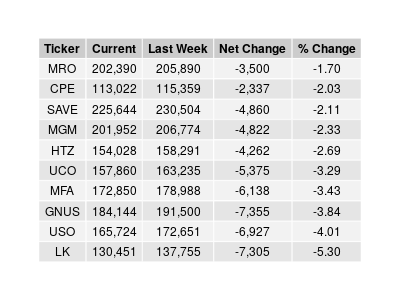
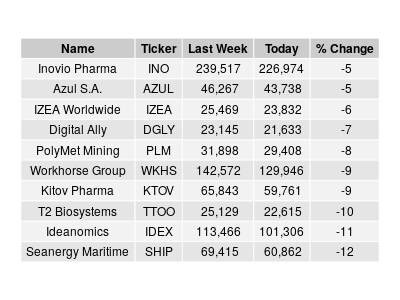
updated on july 12

diff --git a/README.md b/README.md
@@ -1,17 +1,11 @@
 # Robinhood at a Glance
-### -- July 5, 2020
-
-See [this chart](https://charts4github.imfast.io/interactive-plots.html)
+### -- July 12, 2020
 
 This is a preamble to full scale modeling of the Robinhood popularity data using machine learning. Before that, I want to 
 take a glance of the current market as seen in the Robinhood community. Here I use the dataset provided in [*robintrack*](https://robintrack.net), 
 which has the most up-to-date user holdings data. 
 
-[Robinhood](https://robinhood.com) is a discount broker which charges zero commission for stock trading. It has gained wide following in
-recent years, particularly among the millennials. Unlike other brokers, it publishes aggregate data about what stocks its
-users own, and that is the *popularity data* I analyse here. 
-
-For example, the table below shows 916,933 accounts have a position in Ford. Robinhood does not publish the exact number of shares each account holds. 
+[Robinhood](https://robinhood.com) is a discount broker which charges zero commission for stock trading. It has gained wide following in recent years, particularly among the millennials. Unlike other brokers, it publishes aggregate data about what stocks its users own, which is called a stock's *popularity*. 
 
 Since the dataset is quite large (3.3 Gb) and belongs to *robintrack*, I do not include it here. To run my scripts, you need to download it from his site -- see __Data Sources__ below.
 
@@ -25,21 +19,18 @@ Another aspect to keep in mind is that popularity doesn't equate to exposure. A 
 Thus, there is no direct and necessary relationship between popularity and sentiment on a stock. In fact, the usefulness of this particular data point is to be evaluated and determined by a suitable ML model. On some stocks, a large popularity may be a good predictor of future return while it may have little value on others. 
 
 
-## Stocks held by at least 100k accounts [Jun 27th, 2020]
+## Stocks held by at least 100k accounts [July 12th, 2020]
 Just a quick scan of the most popular holdings. Notice that some of these are ETF, e.g. `VOO`, `SPY`. 
-`"F"    "GE"   "AAL"  "DIS"  "DAL"  "MSFT" "CCL"  "GPRO" "AAPL" "ACB"  "PLUG" "NCLH" "BAC"  "BA"   "UAL"  "FIT" 
-"SNAP" "TSLA" "AMZN" "HEXO" "CGC"  "INO"  "RCL"  "UBER" "FB"   "TWTR" "AMD"  "SAVE" "CRON" "BABA" "GRPN" "ZNGA"
-"MRNA" "KO"   "SBUX" "LUV"  "T"    "MRO"  "MGM"  "TOPS" "APHA" "JBLU" "GNUS" "OGI"  "MFA"  "NIO"  "XOM"  "USO" 
-"UCO"  "HTZ"  "NFLX" "NKLA" "IVR"  "SPCE" "GM"   "AMC"  "LK"   "NOK"  "NVDA" "VOO"  "CTST" "NRZ"  "IDEX" "CPE" 
-"DKNG" "WKHS" "PLAY" "PENN" "CPRX" "TLRY" "SPY"  "SIRI" "OAS"  "NKE"  "WORK"`
-
-
-__New this week__ : `IDEX`, `WKHS`
+"F"    "GE"   "AAL"  "DIS"  "DAL"  "AAPL" "MSFT" "CCL"  "GPRO" "ACB"  "TSLA" "PLUG" "NCLH" "AMZN" "BAC" 
+"SNAP" "BA"   "FIT"  "UAL"  "NIO"  "UBER" "HEXO" "CGC"  "BABA" "RCL"  "FB"   "TWTR" "INO"  "AMD"  "CRON"
+"SAVE" "ZNGA" "KO"   "MRNA" "T"    "TOPS" "SBUX" "LUV"  "APHA" "MRO"  "GNUS" "JBLU" "MGM"  "OGI"  "NFLX"
+"MFA"  "XOM"  "USO"  "UCO"  "HTZ"  "IVR"  "SPCE" "AMC"  "NVDA" "GM"   "WKHS" "NOK"  "VOO"  "NRZ"  "CPE" 
+"PLAY" "PFE"  "PENN" "CPRX" "SQ"   "SPY"  "TLRY" "SIRI" "NKE"  "WORK" "IDEX" "VSLR"
 
 
 
 
-## Biggest Increase Last Week [Jul 4th, 2020]
+## Biggest Increase Last Week [Jul 12th, 2020]
 These 10 stocks saw the biggest percent increase in user holdings last week. 
 
 
@@ -49,7 +40,7 @@ These 10 stocks saw the biggest percent increase in user holdings last week.
 
 
 
-## Biggest Decrease Last Week [Jul 4th, 2020]
+## Biggest Decrease Last Week [Jul 12th, 2020]
 Likewise, these are the biggest losers last week.
 
 <p align="center"> 
@@ -58,7 +49,7 @@ Likewise, these are the biggest losers last week.
 
 
 
-## Top 10 Holdings [Jul 4th, 2020]
+## Top 10 Holdings [Jul 12th, 2020]
 These are the favorites of the Robinhood community. 
 
 
@@ -68,63 +59,18 @@ These are the favorites of the Robinhood community.
 
 
 
-
-![top_ten](plots/Top_10_charts.png)
-
-Red line : Robinhood's popularity, or user holding. Blue line : stock price.
+![top_ten](plots/Plot_Top_10.png)
 
 
 
 
-## Largest % increase since Mar 20 [Not Updated]
+## Largest % increase since Mar 20 [Jul 12th, 2020]
 Holdings in these stocks have gone up mutiple times. I use March 20 as the base level for comparison since that's the bottom of this bear market -- so far. 
 
-    
-| Ticker    |  Company Name   | Mar 20 | Jun 20 | Change % |
-| -----------|--------|---------|---------|------|
-|  IVR   | Invesco Mortgage|  1,323  |  144,370 |  10,812|
-| GNUS   | Genius Brands |  3,532 |   190,193  | 5,284 |
-| SHIP  |Seanergy Maritime|   1,757  |   78,600 |  4,373|
-|  UCO  |ProShares Ultra Crude Oil|  3,955  |  164,385 |  4,056|
-|  HTZ   | Hertz|  4,970 |   163,226|  3,184|
-| MFA   | MFA Financial | 5,614 |  180,614 | 3,117 |
-| XSPA  |XpresSpa |   2,849  |   90,944 |  3,092|
-| TOPS  | Top Ships  |    7,537 |   180,647 | 2,297 |
-| VTIQ[3]  | VectoIQ (Nikola)  |       5,110  |   86,881 | 1,600 |
-| USO  | U.S. Oil Fund  |   19,737  |  175,211 |  788 |
+<p align="left"> 
+<img src="plots/LargestIncr_since_Mar20.png" width="100%">
+</p>
 
-
-`IVR` is a mortgage REIT that almost went bankrupt.  `GNUS` is a stay-at-home stock, which caters to family with kids locked up at home.  Hertz is a travel stock that just went bankrupt, has been all over the news. `XSPA` provides spa services at airports, so it's in same category as airlines. The two oil ETFs (`USO`, `UCO`) and the two tanker stocks (`TOPS`, `SHIP`) are obvious bets on oil rebound. VTIQ, which has merged and become Nikola, is an outlier.
-
-So, we have evidence of one prominent theme on Robinhood : big bets on oil.
-
-![largest_incr](plots/Largest_incr.png)
-
-
-
-## Largest decrease since Mar 20 [Not Updated]
-Who is falling out of favor? 
-
-To make sure we're not picking up the thinly traded stocks with little interest, the holding on Mar 20 must be at least 10k. 
-
-| Ticker    |  Company Name   | Mar 20 | Jun 20 | Change % |
-| -----------|--------|---------|---------|------|
-|  ACB  |Aurora Cannabis|     743858 |   465437 | -37|
-|  APRN  |Blue Apron|      13838 |     9159 | -33|
-| WTRH   |Waitr Holdings|     20028  |   14435 | -28|
-|  OPK   |OPKO Health|     44611  |   32637 | -27|
-| UVXY   |ProShares Ultra VIX Futures |     14938  |   11209 | -25|
-| CODX   |Co-Diagnostics|     32054  |   25410 | -21|
-| CORV   |Correvio Pharma|     10290  |    8432 | -18|
-| IRBT   |iRobot |     10296  |    8617 | -16|
-| GUSH   |Direxion Oil Gas Bull 2X |     30439  |   27219 | -10|
-| APT    |Alpha Pro Tech|    11203   |  10136 | -9.5|
-
-These names are being shunned by the Robinhood community. Since Robinhood has been growing rapidly with hundreds of thousands of accounts added every month, these stocks have seen a drop in total holding, meaning not only new investors avoided them, existing accounts have closed out previous positions.
-
-It's not clear there's any pattern here.
-
-![largest_decr](plots/Largest_decr.png)   
 
 
 ## Data Exploratory Analysis
